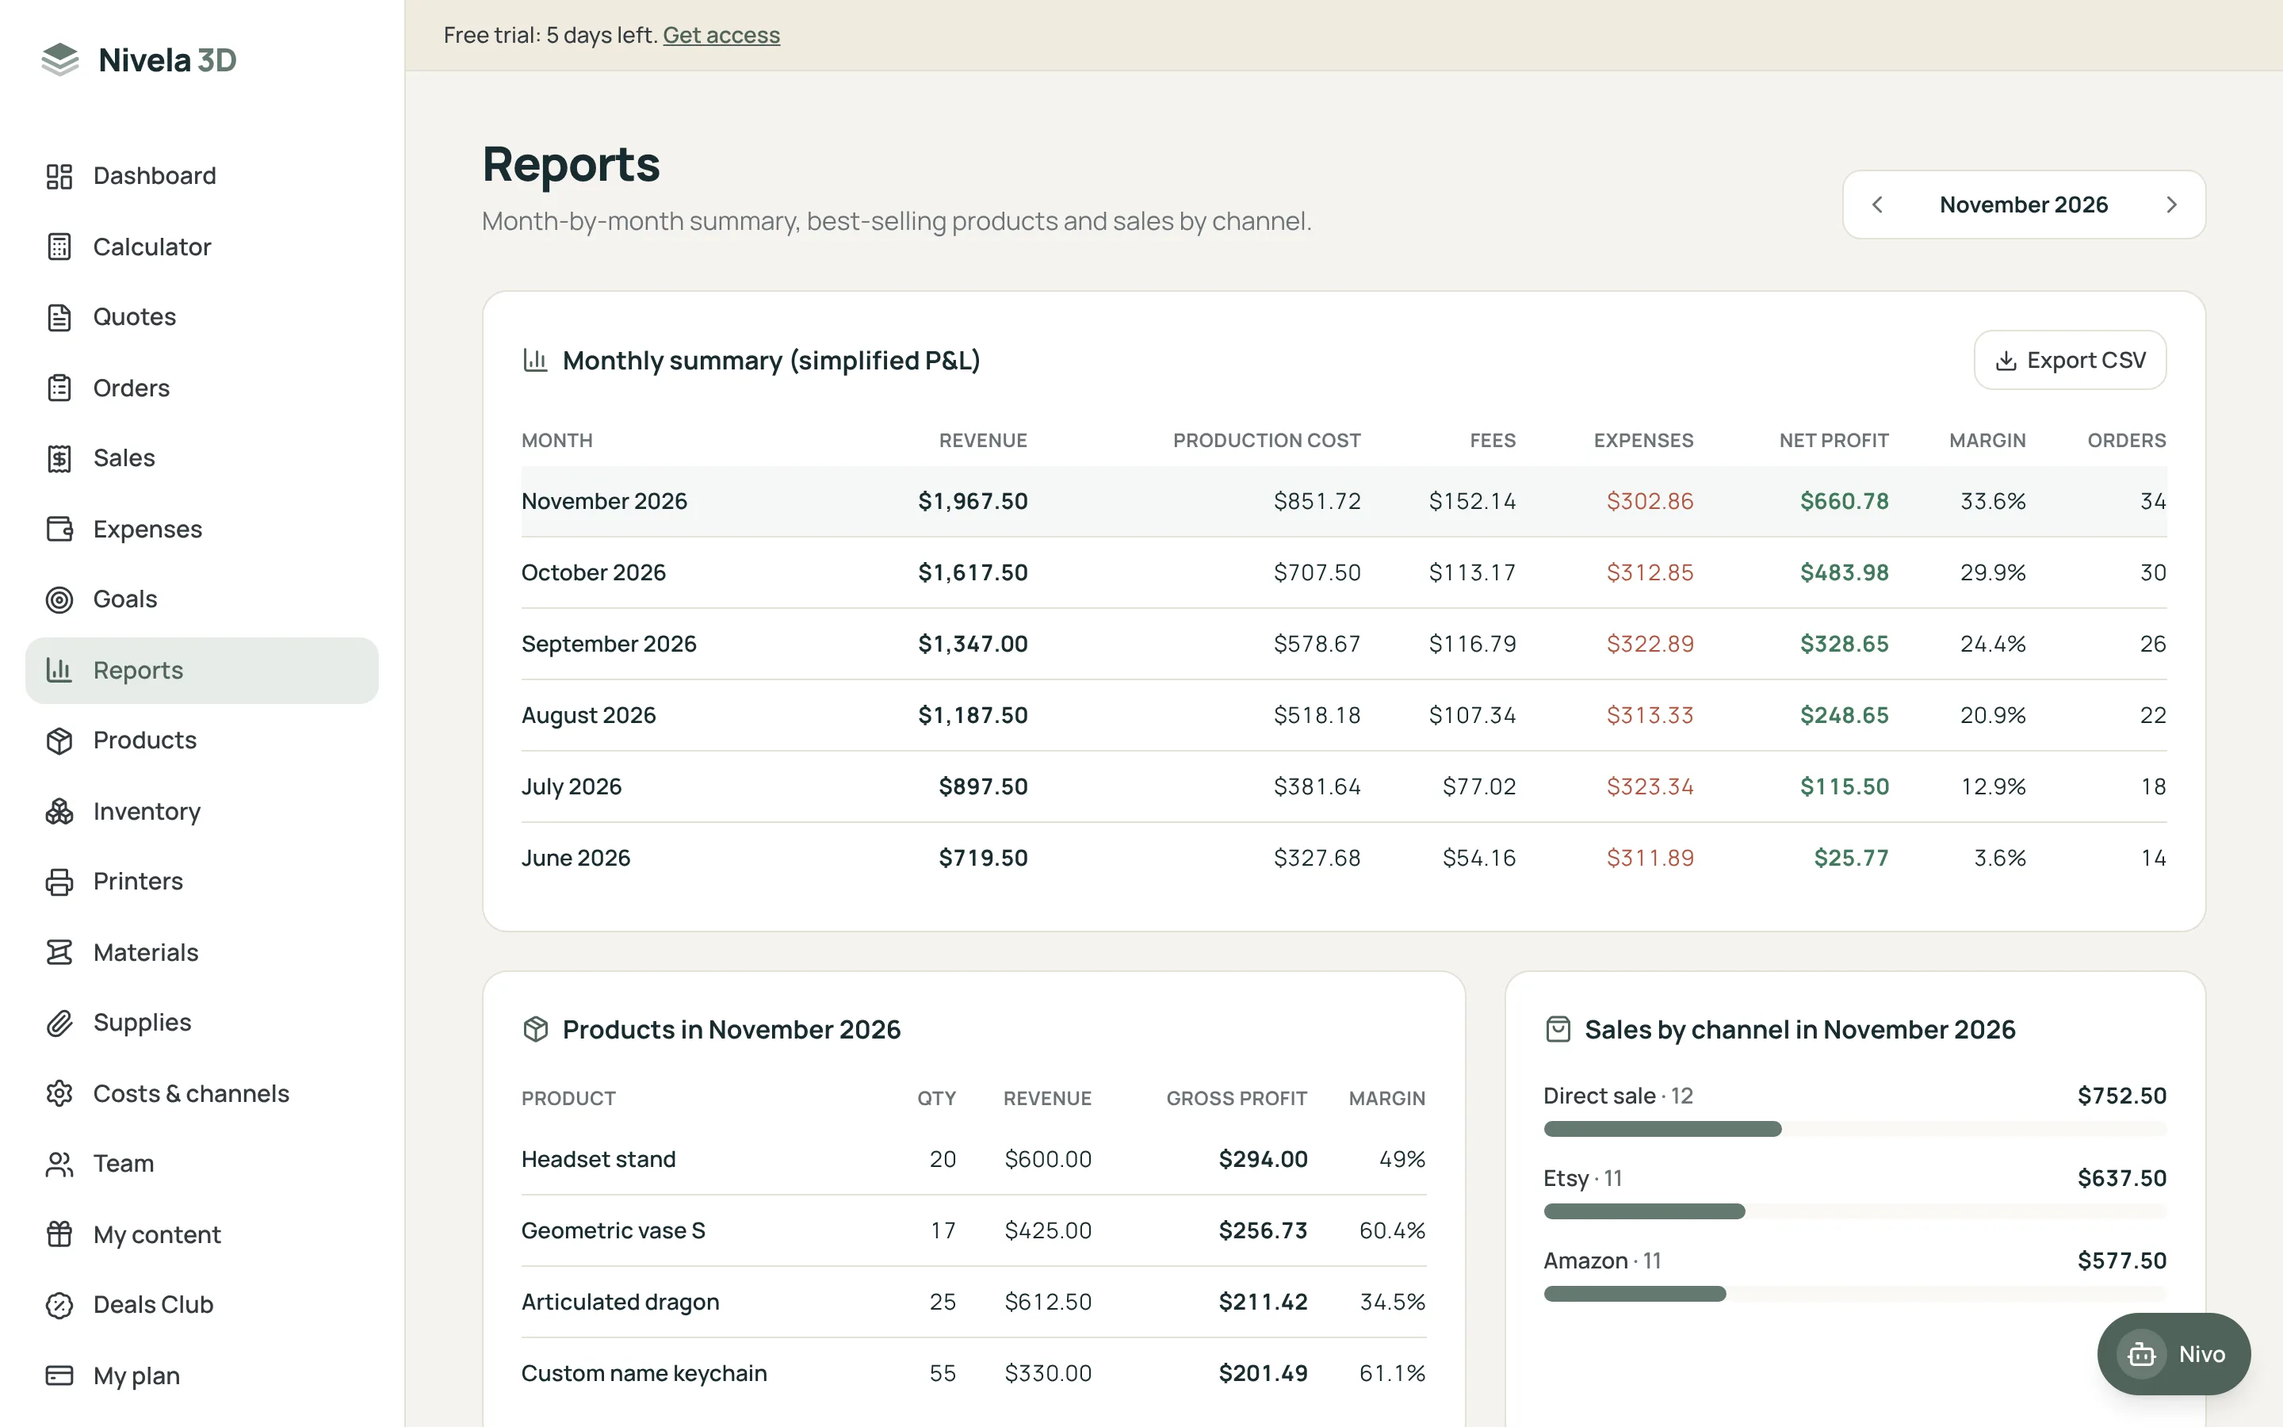
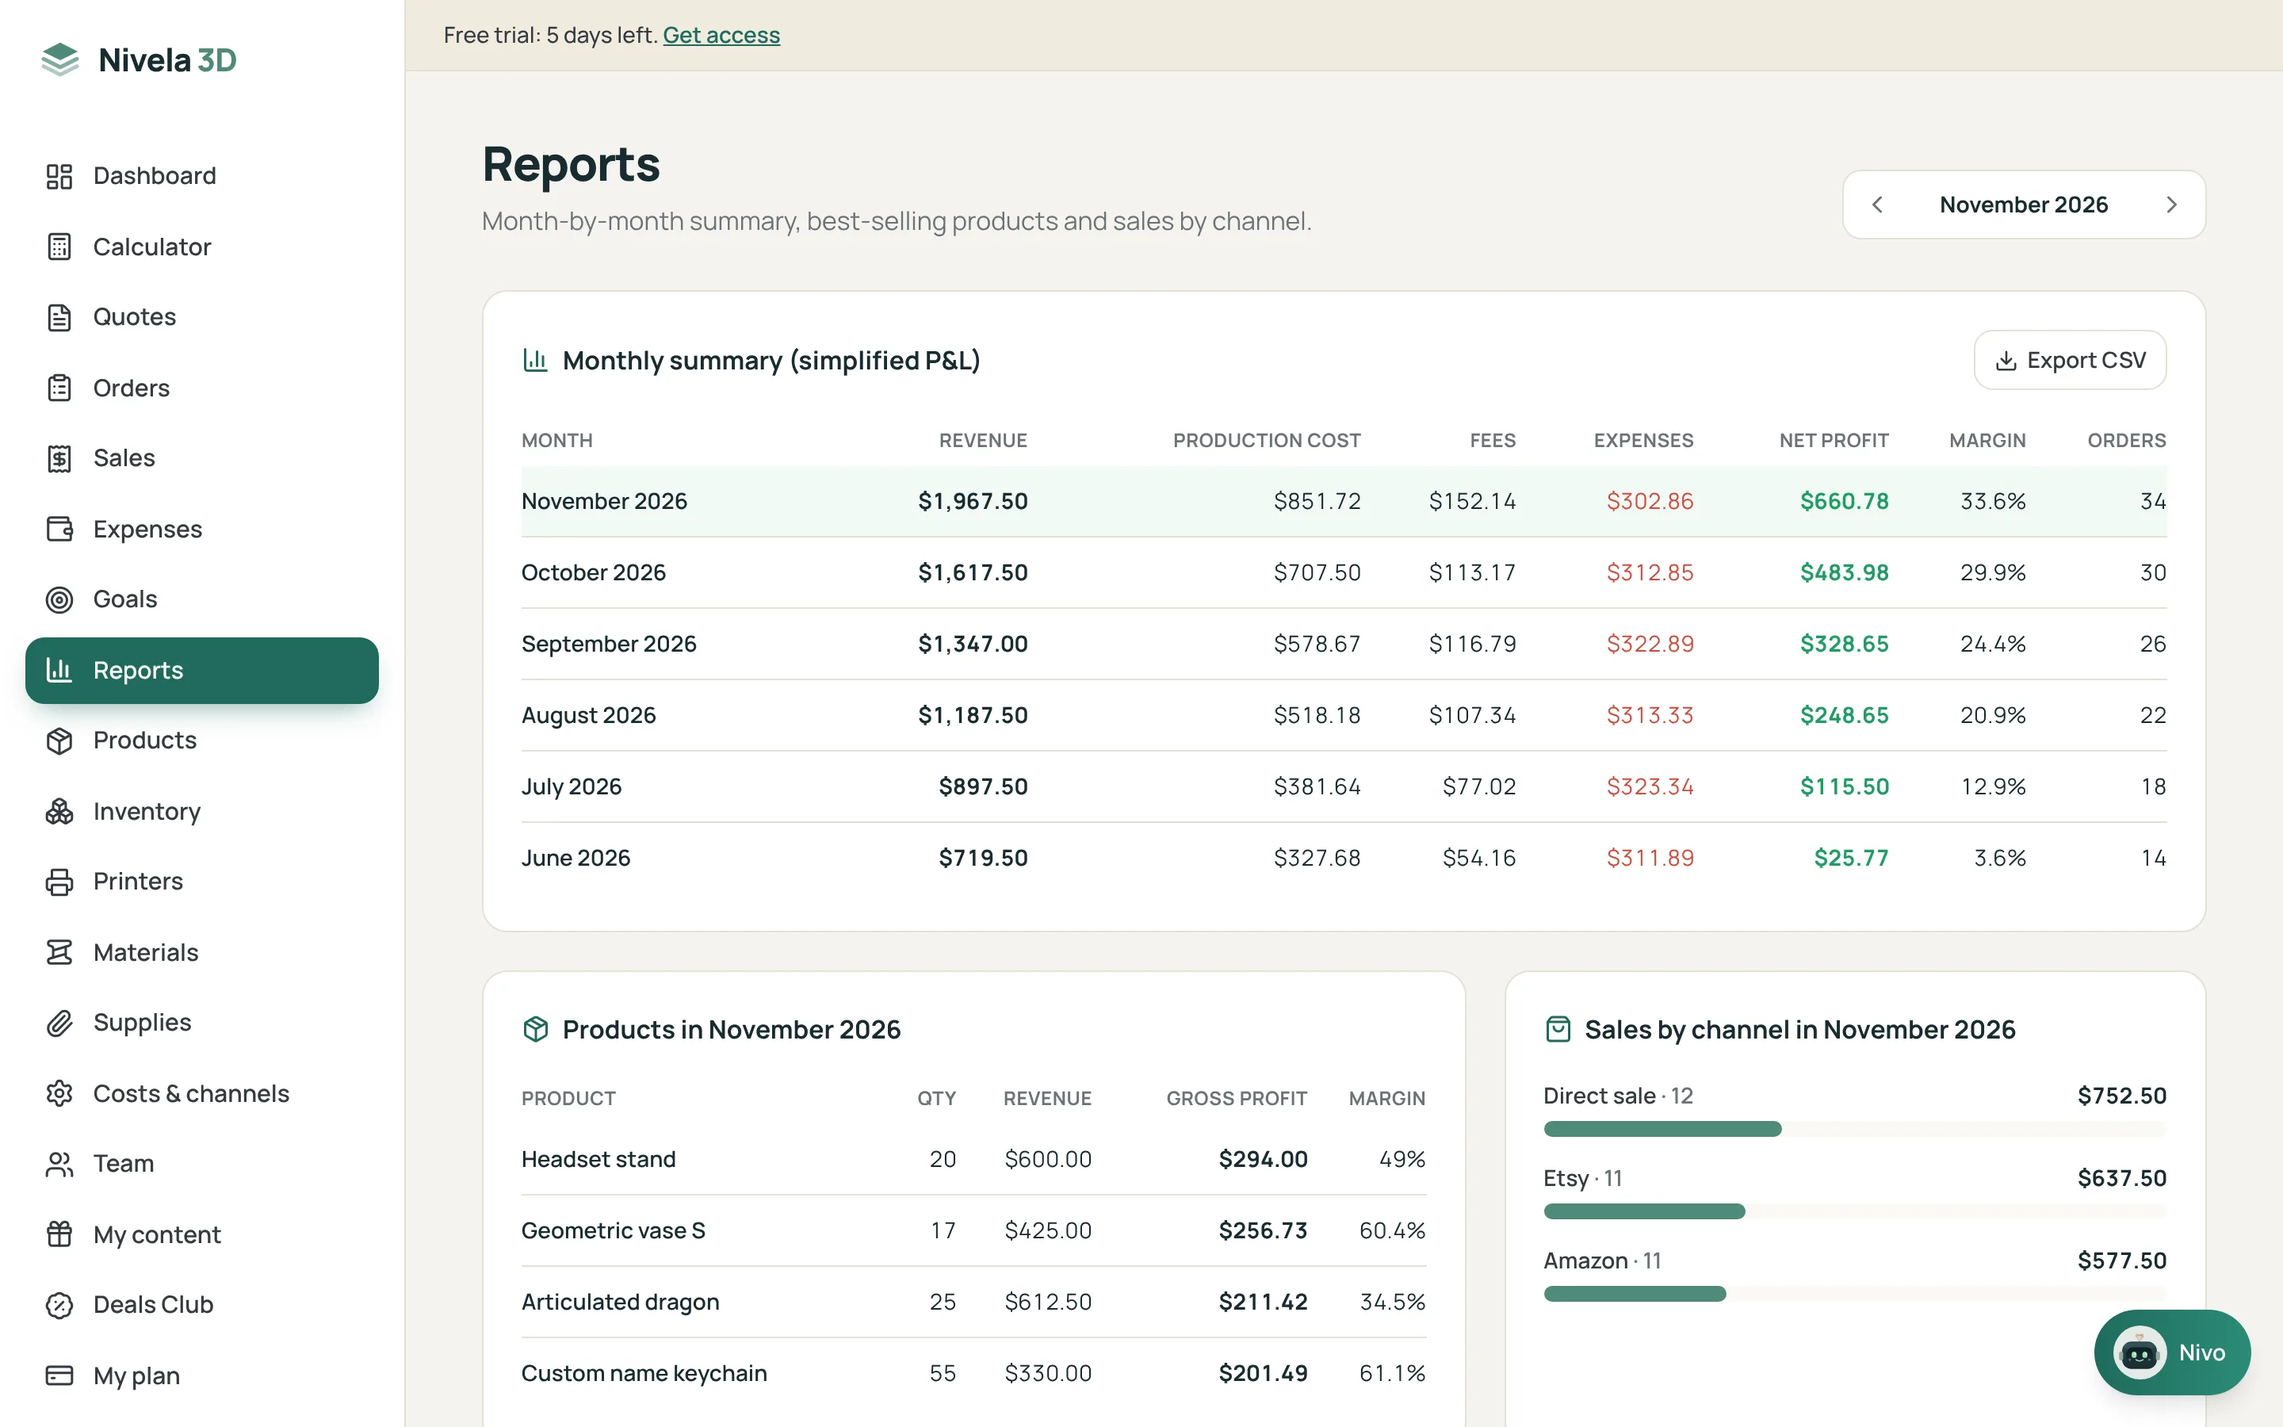
Mais cor na plataforma: verde mais vivo, cores de apoio em ícones, KPIs, gráficos, metas e menu; prints novos
Claude-Session: https://claude.ai/code/session_01LVe9KntqQCW2kSiuP9e3T9

diff --git a/src/app/(app)/painel/page.tsx b/src/app/(app)/painel/page.tsx
@@ -169,9 +169,9 @@ export default async function DashboardPage({ searchParams }: { searchParams: Pr
 
       <div className="grid grid-cols-1 gap-4 sm:grid-cols-2 lg:grid-cols-4">
         <Kpi highlight icon={<CircleDollarSign size={20} />} label={d_.revenue} value={money(S.revenue)} delta={<Delta value={change(S.revenue, P.revenue)} fmtPct={dpct} />} hint={d_.pieces(number(S.units))} />
-        <Kpi icon={<Coins size={20} />} label={fd.netProfit} value={money(S.netProfit)} tone={S.netProfit < 0 ? "negative" : S.netProfit > 0 ? "positive" : undefined} delta={<Delta value={change(S.netProfit, P.netProfit)} fmtPct={dpct} />} hint={S.revenue > 0 ? d_.margin(pct(Math.round(S.marginPct))) : undefined} />
-        <Kpi icon={<CreditCard size={20} />} label={fd.expenses} value={money(S.cost + S.fees + S.expenses)} delta={<Delta value={change(S.cost + S.fees + S.expenses, P.cost + P.fees + P.expenses)} fmtPct={dpct} invert />} />
-        <Kpi icon={<Target size={20} />} label={fd.roi} value={`${number(Math.round(S.roi * 100) / 100)}x`} delta={<Delta value={change(S.roi, P.roi)} fmtPct={dpct} />} />
+        <Kpi accent="green" icon={<Coins size={20} />} label={fd.netProfit} value={money(S.netProfit)} tone={S.netProfit < 0 ? "negative" : S.netProfit > 0 ? "positive" : undefined} delta={<Delta value={change(S.netProfit, P.netProfit)} fmtPct={dpct} />} hint={S.revenue > 0 ? d_.margin(pct(Math.round(S.marginPct))) : undefined} />
+        <Kpi accent="rose" icon={<CreditCard size={20} />} label={fd.expenses} value={money(S.cost + S.fees + S.expenses)} delta={<Delta value={change(S.cost + S.fees + S.expenses, P.cost + P.fees + P.expenses)} fmtPct={dpct} invert />} />
+        <Kpi accent="violet" icon={<Target size={20} />} label={fd.roi} value={`${number(Math.round(S.roi * 100) / 100)}x`} delta={<Delta value={change(S.roi, P.roi)} fmtPct={dpct} />} />
       </div>
 
       <div className="mt-6 grid gap-6 lg:grid-cols-[1.6fr_1fr]">
@@ -223,14 +223,14 @@ export default async function DashboardPage({ searchParams }: { searchParams: Pr
               <>
                 <p className="mt-3 text-sm"><span className="tnum text-xl font-extrabold">{money(S.revenue)}</span> <span className="text-muted">{tt.finance.goals.of(money(settings.goal_revenue))}</span></p>
                 <div className="mt-2"><Progress pct={goal.pct} /></div>
-                <p className="mt-3 rounded-xl bg-primary-soft p-3 text-sm text-ink-2">{goal.left <= 0 ? fd.goalDone : fd.goalLeft(money(goal.left), money(goal.perDay), goal.daysLeft)}</p>
+                <p className="mt-3 rounded-xl bg-blue-soft p-3 text-sm text-ink-2">{goal.left <= 0 ? fd.goalDone : fd.goalLeft(money(goal.left), money(goal.perDay), goal.daysLeft)}</p>
               </>
             ) : (
               <p className="mt-3 text-sm text-muted">{fd.noGoal}</p>
             )}
           </section>
 
-          <NivoButton className="flex w-full items-center gap-3 rounded-2xl bg-primary p-4 text-left text-on-primary transition hover:bg-primary-hover">
+          <NivoButton className="flex w-full items-center gap-3 rounded-2xl bg-gradient-to-r from-primary to-primary-2 p-4 text-left text-on-primary shadow-[0_14px_30px_-14px_rgba(31,107,92,0.6)] transition hover:brightness-110">
             <NivoAvatar size={40} />
             <span>
               <span className="block font-bold">{fd.askNivo}</span>

diff --git a/src/components/finance.tsx b/src/components/finance.tsx
@@ -65,8 +65,8 @@ export function DailyBars({
       <div className="flex h-40 items-end gap-[3px] sm:h-56 lg:h-72">
         {days.map((d) => (
           <div key={d.date} className="group relative flex h-full flex-1 items-end" title={`${fmtDay(d.date)} · ${fmtMoney(d.revenue)}`}>
-            <div className="w-full rounded-t-[3px] bg-primary/20" style={{ height: `${(d.revenue / max) * 100}%`, minHeight: d.revenue > 0 ? 3 : 0 }}>
-              <div className="w-full rounded-t-[3px] bg-primary" style={{ height: `${d.revenue > 0 ? Math.max(0, Math.min(100, (d.profit / d.revenue) * 100)) : 0}%`, marginTop: "auto" }} />
+            <div className="w-full rounded-t-[4px] bg-teal/25" style={{ height: `${(d.revenue / max) * 100}%`, minHeight: d.revenue > 0 ? 3 : 0 }}>
+              <div className="w-full rounded-t-[4px] bg-gradient-to-t from-primary to-teal" style={{ height: `${d.revenue > 0 ? Math.max(0, Math.min(100, (d.profit / d.revenue) * 100)) : 0}%`, marginTop: "auto" }} />
             </div>
           </div>
         ))}
@@ -83,7 +83,7 @@ export function DailyBars({
 export function Progress({ pct, tone = "primary" }: { pct: number; tone?: "primary" | "positive" }) {
   return (
     <div className="h-2.5 overflow-hidden rounded-full bg-surface-2">
-      <div className={`h-full rounded-full ${tone === "positive" ? "bg-positive" : "bg-primary"}`} style={{ width: `${Math.max(0, Math.min(100, pct))}%` }} />
+      <div className={`h-full rounded-full bg-gradient-to-r ${tone === "positive" ? "from-positive to-teal" : "from-primary to-blue"}`} style={{ width: `${Math.max(0, Math.min(100, pct))}%` }} />
     </div>
   );
 }
@@ -115,6 +115,7 @@ export function Kpi({
   hint,
   highlight = false,
   tone,
+  accent = "primary",
 }: {
   icon: React.ReactNode;
   label: string;
@@ -123,11 +124,20 @@ export function Kpi({
   hint?: string;
   highlight?: boolean;
   tone?: "positive" | "negative";
+  accent?: "primary" | "green" | "rose" | "violet" | "blue" | "amber";
 }) {
+  const ACC = {
+    primary: "bg-primary-soft text-primary",
+    green: "bg-teal-soft text-positive",
+    rose: "bg-rose-soft text-rose",
+    violet: "bg-violet-soft text-violet",
+    blue: "bg-blue-soft text-blue",
+    amber: "bg-amber-soft text-amber",
+  }[accent];
   return (
-    <div className={`rounded-2xl p-5 ${highlight ? "bg-primary text-on-primary shadow-sm" : "card"}`}>
+    <div className={`rounded-2xl p-5 ${highlight ? "bg-gradient-to-br from-primary to-primary-2 text-on-primary shadow-[0_14px_30px_-12px_rgba(31,107,92,0.55)]" : "card"}`}>
       <div className="flex items-center gap-3">
-        <span className={`rounded-xl p-2.5 ${highlight ? "bg-white/15" : "bg-primary-soft text-primary"}`}>{icon}</span>
+        <span className={`rounded-xl p-2.5 ${highlight ? "bg-white/20" : ACC}`}>{icon}</span>
         <p className={`text-sm font-semibold ${highlight ? "text-on-primary/85" : "text-muted"}`}>{label}</p>
       </div>
       <p

diff --git a/src/app/globals.css b/src/app/globals.css
@@ -13,16 +13,28 @@
   --text: #182b30;
   --text-2: #343b40;
   --muted: #6b7378;
-  --primary: #4f6359;
-  --primary-hover: #435449;
-  --primary-soft: #e6ece8;
+  --primary: #1f6b5c;
+  --primary-hover: #185a4d;
+  --primary-soft: #e0efe9;
   --on-primary: #ffffff;
-  --sage: #647a70;
+  --primary-2: #2c8c78;
+  --sage: #4f8a78;
   --sand: #c5b79e;
   --sand-soft: #f1ebdf;
-  --positive: #3f7a5a;
-  --negative: #b4533f;
-  --negative-soft: #f6e4df;
+  --positive: #1e9e63;
+  --negative: #d24a3c;
+  --negative-soft: #fbe6e3;
+  /* cores de apoio (ícones, gráficos, destaques) */
+  --blue: #2f6fed;
+  --blue-soft: #e5edfd;
+  --amber: #e0961b;
+  --amber-soft: #fcf0d9;
+  --violet: #7a5ae0;
+  --violet-soft: #eee9fc;
+  --rose: #e0524a;
+  --rose-soft: #fce7e5;
+  --teal: #12a38a;
+  --teal-soft: #dbf3ee;
 }
 
 .dark {
@@ -33,16 +45,27 @@
   --text: #f5f3ee;
   --text-2: #dcd9d1;
   --muted: #9aa8a8;
-  --primary: #8fa69a;
-  --primary-hover: #a3b8ad;
-  --primary-soft: #23383a;
-  --on-primary: #10191c;
-  --sage: #8fa69a;
+  --primary: #5cc3a6;
+  --primary-hover: #74d0b6;
+  --primary-soft: #1d3d3a;
+  --on-primary: #0d1a1c;
+  --primary-2: #3aa88c;
+  --sage: #8fc1b0;
   --sand: #c5b79e;
   --sand-soft: #2a3532;
-  --positive: #7fbf98;
-  --negative: #e08a74;
-  --negative-soft: #3a2723;
+  --positive: #5fd39a;
+  --negative: #f08a78;
+  --negative-soft: #3d2622;
+  --blue: #7aa5ff;
+  --blue-soft: #1e2d4a;
+  --amber: #f2b54d;
+  --amber-soft: #3a2f1a;
+  --violet: #a98cff;
+  --violet-soft: #2c2547;
+  --rose: #f58a80;
+  --rose-soft: #422523;
+  --teal: #4fd6bd;
+  --teal-soft: #17383a;
 }
 
 @theme inline {
@@ -63,6 +86,17 @@
   --color-positive: var(--positive);
   --color-negative: var(--negative);
   --color-negative-soft: var(--negative-soft);
+  --color-primary-2: var(--primary-2);
+  --color-blue: var(--blue);
+  --color-blue-soft: var(--blue-soft);
+  --color-amber: var(--amber);
+  --color-amber-soft: var(--amber-soft);
+  --color-violet: var(--violet);
+  --color-violet-soft: var(--violet-soft);
+  --color-rose: var(--rose);
+  --color-rose-soft: var(--rose-soft);
+  --color-teal: var(--teal);
+  --color-teal-soft: var(--teal-soft);
   --font-sans: "Manrope Variable", ui-sans-serif, system-ui, sans-serif;
 }
 

diff --git a/src/components/SalesPage.tsx b/src/components/SalesPage.tsx
@@ -42,6 +42,7 @@ import { NivoDemo } from "@/components/landing/NivoDemo";
 import { ProfitCalc } from "@/components/landing/ProfitCalc";
 import { NivoAvatar } from "@/components/NivoAvatar";
 
+const TOOL_TONES = ["bg-primary-soft text-primary", "bg-blue-soft text-blue", "bg-amber-soft text-amber", "bg-rose-soft text-rose", "bg-violet-soft text-violet", "bg-teal-soft text-teal", "bg-amber-soft text-amber", "bg-blue-soft text-blue", "bg-primary-soft text-primary"];
 const TOOL_ICONS = [LayoutDashboard, Calculator, Receipt, Wallet, Target, BarChart3, Boxes, ClipboardList, Bot];
 const SOLUTION_SHOTS = ["painel", "metas", "relatorios"];
 const DEVICE_ICONS = [Monitor, Cloud, Moon];
@@ -396,7 +397,7 @@ export function SalesPage({ upsell = false, declineUrl, locale = "pt" }: { upsel
                 const I = TOOL_ICONS[i];
                 return (
                   <div key={t} className="flex gap-4 rounded-2xl border border-line bg-surface p-5">
-                    <span className="flex h-11 w-11 shrink-0 items-center justify-center rounded-xl bg-primary-soft text-primary"><I size={21} /></span>
+                    <span className={`flex h-11 w-11 shrink-0 items-center justify-center rounded-xl ${TOOL_TONES[i]}`}><I size={21} /></span>
                     <div>
                       <p className="font-bold">{t}</p>
                       <p className="mt-0.5 text-[15px] leading-relaxed text-muted">{d}</p>

diff --git a/src/components/landing/Central3DOffer.tsx b/src/components/landing/Central3DOffer.tsx
@@ -30,6 +30,7 @@ import { NivoAvatar } from "@/components/NivoAvatar";
 export const C3D_UPSELL = "https://appdigitalhub.com.br/c/4DFFFC24";
 export const C3D_DOWNSELL = "https://appdigitalhub.com.br/c/291E7628";
 
+const TOOL_TONES = ["bg-primary-soft text-primary", "bg-blue-soft text-blue", "bg-amber-soft text-amber", "bg-rose-soft text-rose", "bg-violet-soft text-violet", "bg-teal-soft text-teal", "bg-amber-soft text-amber", "bg-blue-soft text-blue", "bg-primary-soft text-primary"];
 const TOOL_ICONS = [LayoutDashboard, Calculator, Receipt, Wallet, Target, BarChart3, Boxes, ClipboardList, Bot];
 
 /** Checkouts em dólar (STL Católico em inglês). */
@@ -338,7 +339,7 @@ export function Central3DOffer({ variant, declineUrl, acceptUrl, locale = "pt" }
                     const I = TOOL_ICONS[i];
                     return (
                       <div key={t} className="flex gap-4 rounded-2xl border border-line bg-bg p-5">
-                        <span className="flex h-11 w-11 shrink-0 items-center justify-center rounded-xl bg-primary-soft text-primary"><I size={21} /></span>
+                        <span className={`flex h-11 w-11 shrink-0 items-center justify-center rounded-xl ${TOOL_TONES[i]}`}><I size={21} /></span>
                         <div>
                           <p className="font-bold">{t}</p>
                           <p className="mt-0.5 text-[15px] leading-relaxed text-muted">{d}</p>

diff --git a/src/components/Nivo.tsx b/src/components/Nivo.tsx
@@ -88,7 +88,7 @@ export function Nivo({ firstName }: { firstName: string }) {
         <button
           type="button"
           onClick={() => setOpen(true)}
-          className="fixed bottom-5 right-5 z-40 flex items-center gap-2 rounded-full bg-primary py-2.5 pl-3 pr-4 font-semibold text-on-primary shadow-lg transition hover:scale-[1.03]"
+          className="fixed bottom-5 right-5 z-40 flex items-center gap-2 rounded-full bg-gradient-to-r from-primary to-primary-2 py-2.5 pl-3 pr-4 font-semibold text-on-primary shadow-lg transition hover:scale-[1.03]"
           aria-label={n.sideTitle}
         >
           <NivoAvatar size={34} />
@@ -98,7 +98,7 @@ export function Nivo({ firstName }: { firstName: string }) {
 
       {open && (
         <div className="fixed inset-x-3 bottom-3 z-50 flex max-h-[80dvh] flex-col overflow-hidden rounded-2xl border border-line bg-surface shadow-2xl sm:inset-x-auto sm:right-5 sm:bottom-5 sm:w-[380px]">
-          <div className="flex items-center gap-3 bg-primary px-4 py-3 text-on-primary">
+          <div className="flex items-center gap-3 bg-gradient-to-r from-primary to-primary-2 px-4 py-3 text-on-primary">
             <NivoAvatar size={40} />
             <div className="flex-1">
               <p className="font-bold leading-tight">

diff --git a/src/components/Sidebar.tsx b/src/components/Sidebar.tsx
@@ -81,7 +81,7 @@ export function Sidebar({
             href={href}
             onClick={() => setOpen(false)}
             className={`flex items-center gap-3 rounded-xl px-3 py-2.5 text-[15px] font-semibold transition ${
-              active ? "bg-primary-soft text-primary" : "text-ink-2 hover:bg-surface-2"
+              active ? "bg-primary text-on-primary shadow-[0_8px_18px_-8px_rgba(31,107,92,0.6)]" : "text-ink-2 hover:bg-surface-2"
             }`}
           >
             <Icon size={19} strokeWidth={active ? 2.3 : 1.9} />
@@ -100,7 +100,7 @@ export function Sidebar({
           setOpen(false);
           openNivo();
         }}
-        className="mb-2 flex w-full items-center gap-3 rounded-xl bg-primary px-3 py-3 text-left text-on-primary transition hover:bg-primary-hover"
+        className="mb-2 flex w-full items-center gap-3 rounded-xl bg-gradient-to-r from-primary to-primary-2 px-3 py-3 text-left text-on-primary transition hover:brightness-110"
       >
         <NivoAvatar size={34} />
         <span>

diff --git a/src/lib/finance.ts b/src/lib/finance.ts
@@ -9,14 +9,14 @@ export const isExpenseCategory = (v: unknown): v is ExpenseCategory =>
 
 /** Cores das categorias no gráfico de rosca. */
 export const CATEGORY_COLOR: Record<ExpenseCategory, string> = {
-  filamento: "#2F6B5A",
-  energia: "#D69E2E",
-  anuncios: "#6B5BD6",
-  taxas: "#2B9DB0",
-  manutencao: "#C2563B",
-  embalagem: "#8A9A5B",
-  frete: "#5B7FA6",
-  equipamento: "#9C6B98",
+  filamento: "#12A38A",
+  energia: "#E0961B",
+  anuncios: "#7A5AE0",
+  taxas: "#2F6FED",
+  manutencao: "#E0524A",
+  embalagem: "#3FB4D8",
+  frete: "#3B5BDB",
+  equipamento: "#C05AB8",
   outros: "#9AA3A0",
 };
 
